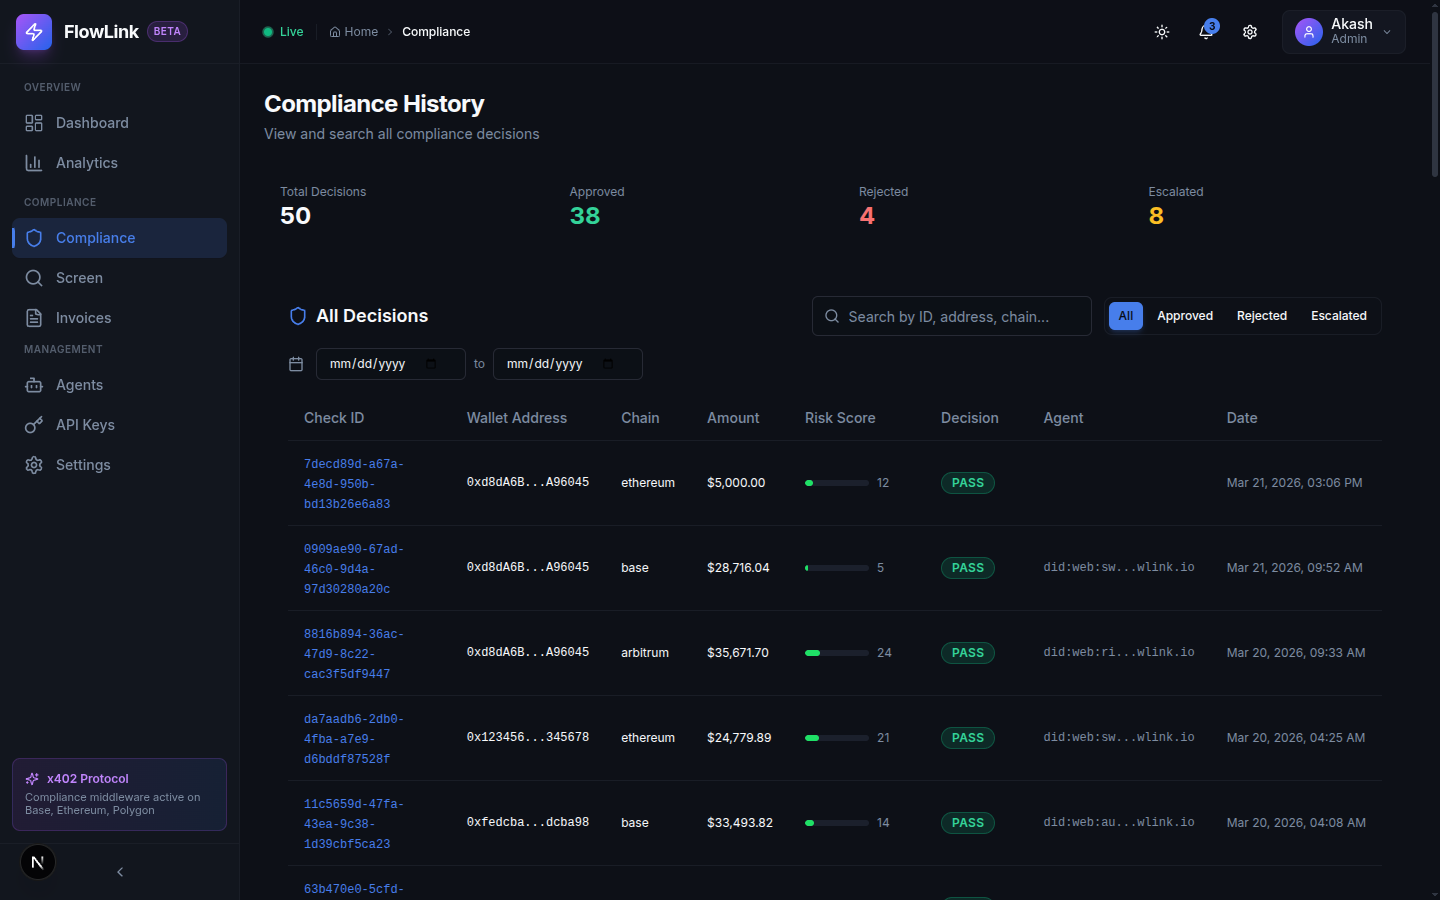
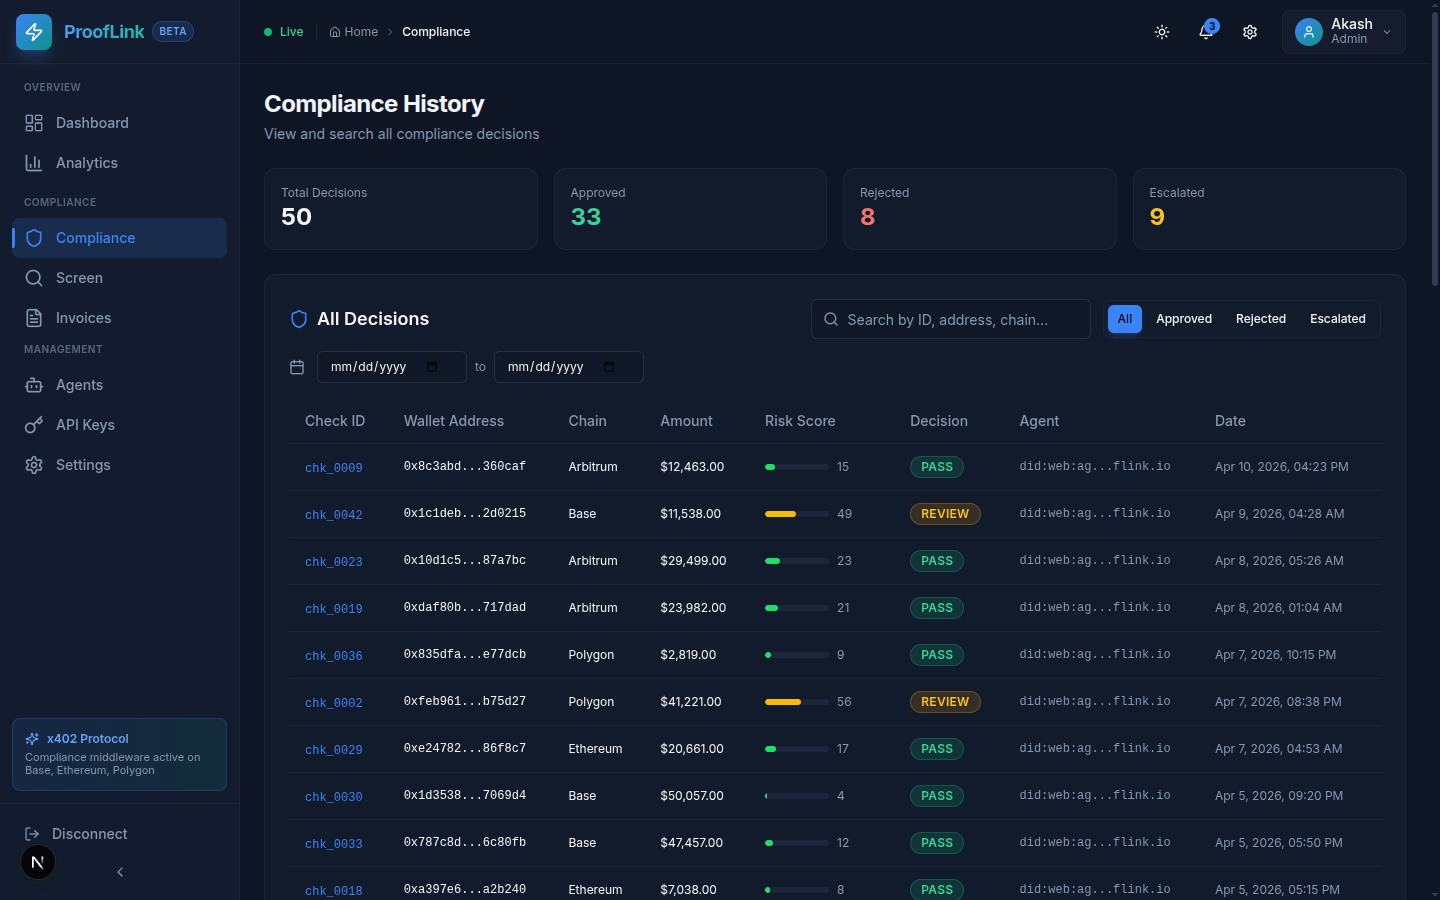
docs: replace screenshots with fresh ProofLink-branded captures
Took live screenshots from the running dashboard showing:
- Main dashboard (stats, compliance volume chart, live activity feed)
- Compliance history (decision table with risk scores)
- Sanctions screening (address screening with risk gauge)
- Analytics (transaction volume, decision donut chart, geo distribution)

All screenshots now show "ProofLink BETA" branding instead of old FlowLink.

diff --git a/README.md b/README.md
@@ -85,6 +85,12 @@ The full pipeline completes in under 200ms.
   <img src="docs/images/sanctions-screening.png" alt="Address sanctions screening" width="800" />
 </p>
 
+**Analytics** — Transaction volume, compliance decision breakdown, risk distribution, and geographic insights:
+
+<p align="center">
+  <img src="docs/images/analytics.png" alt="Compliance analytics dashboard" width="800" />
+</p>
+
 </details>
 
 ---
